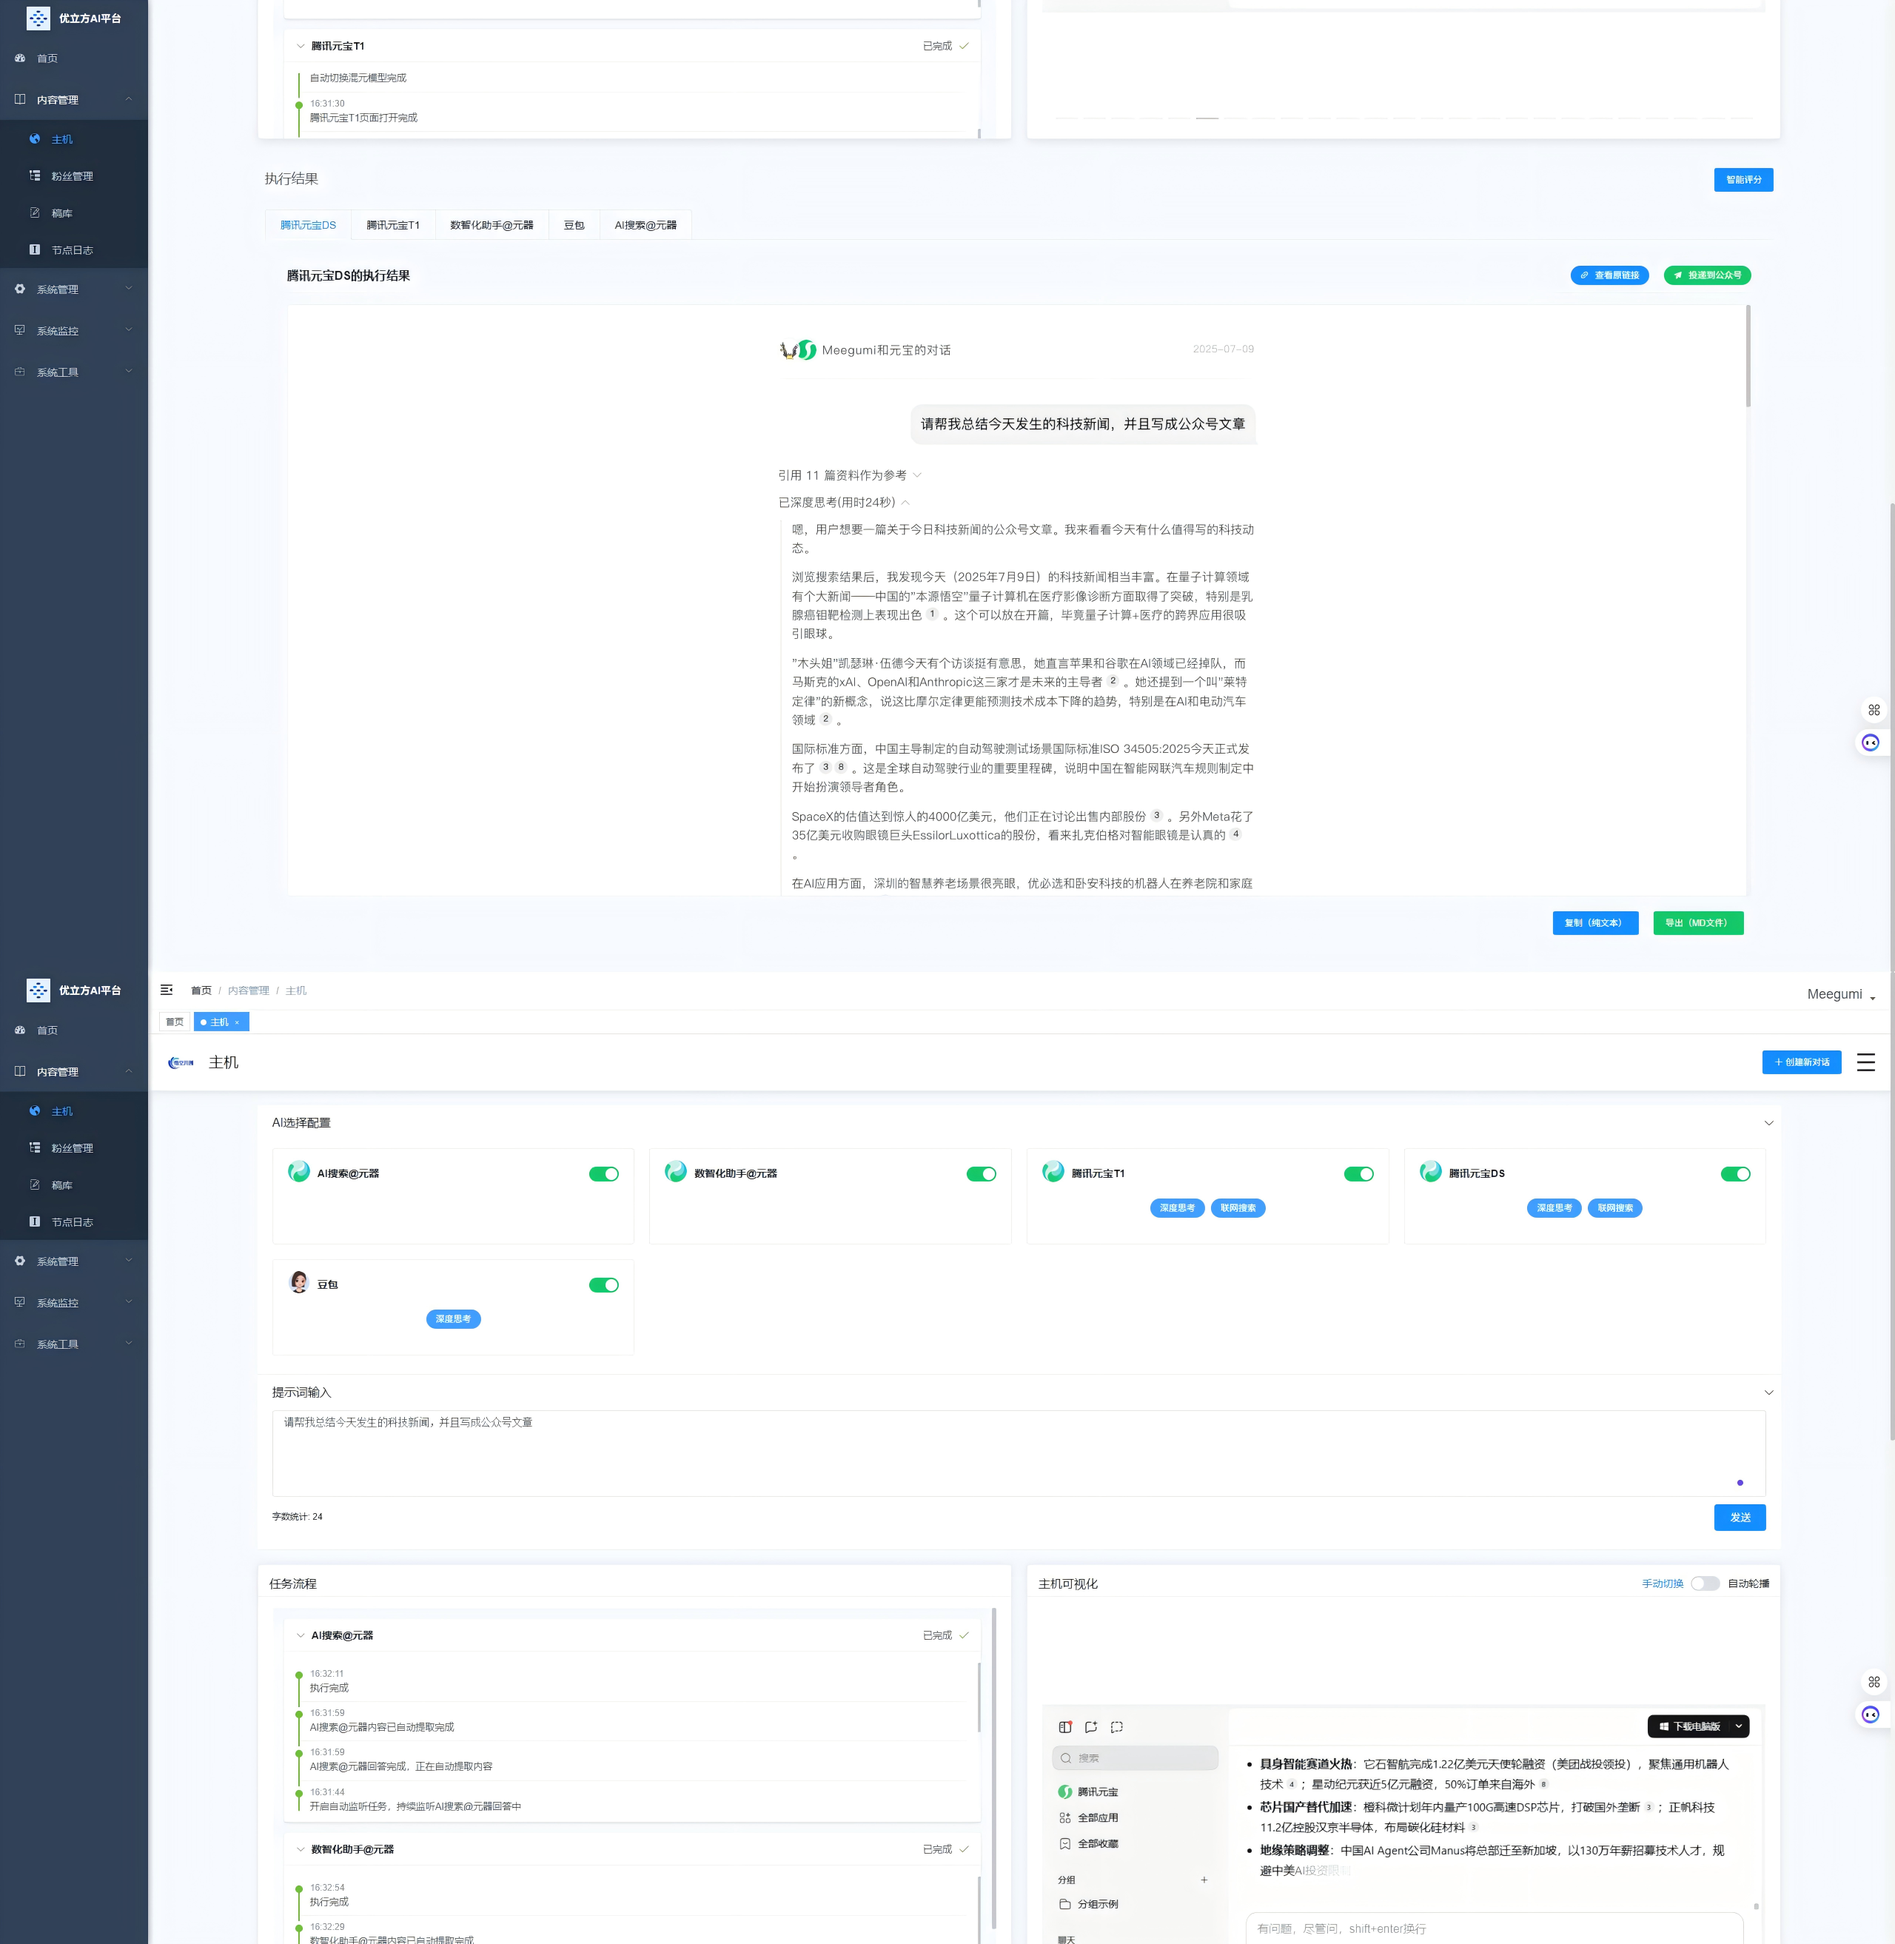
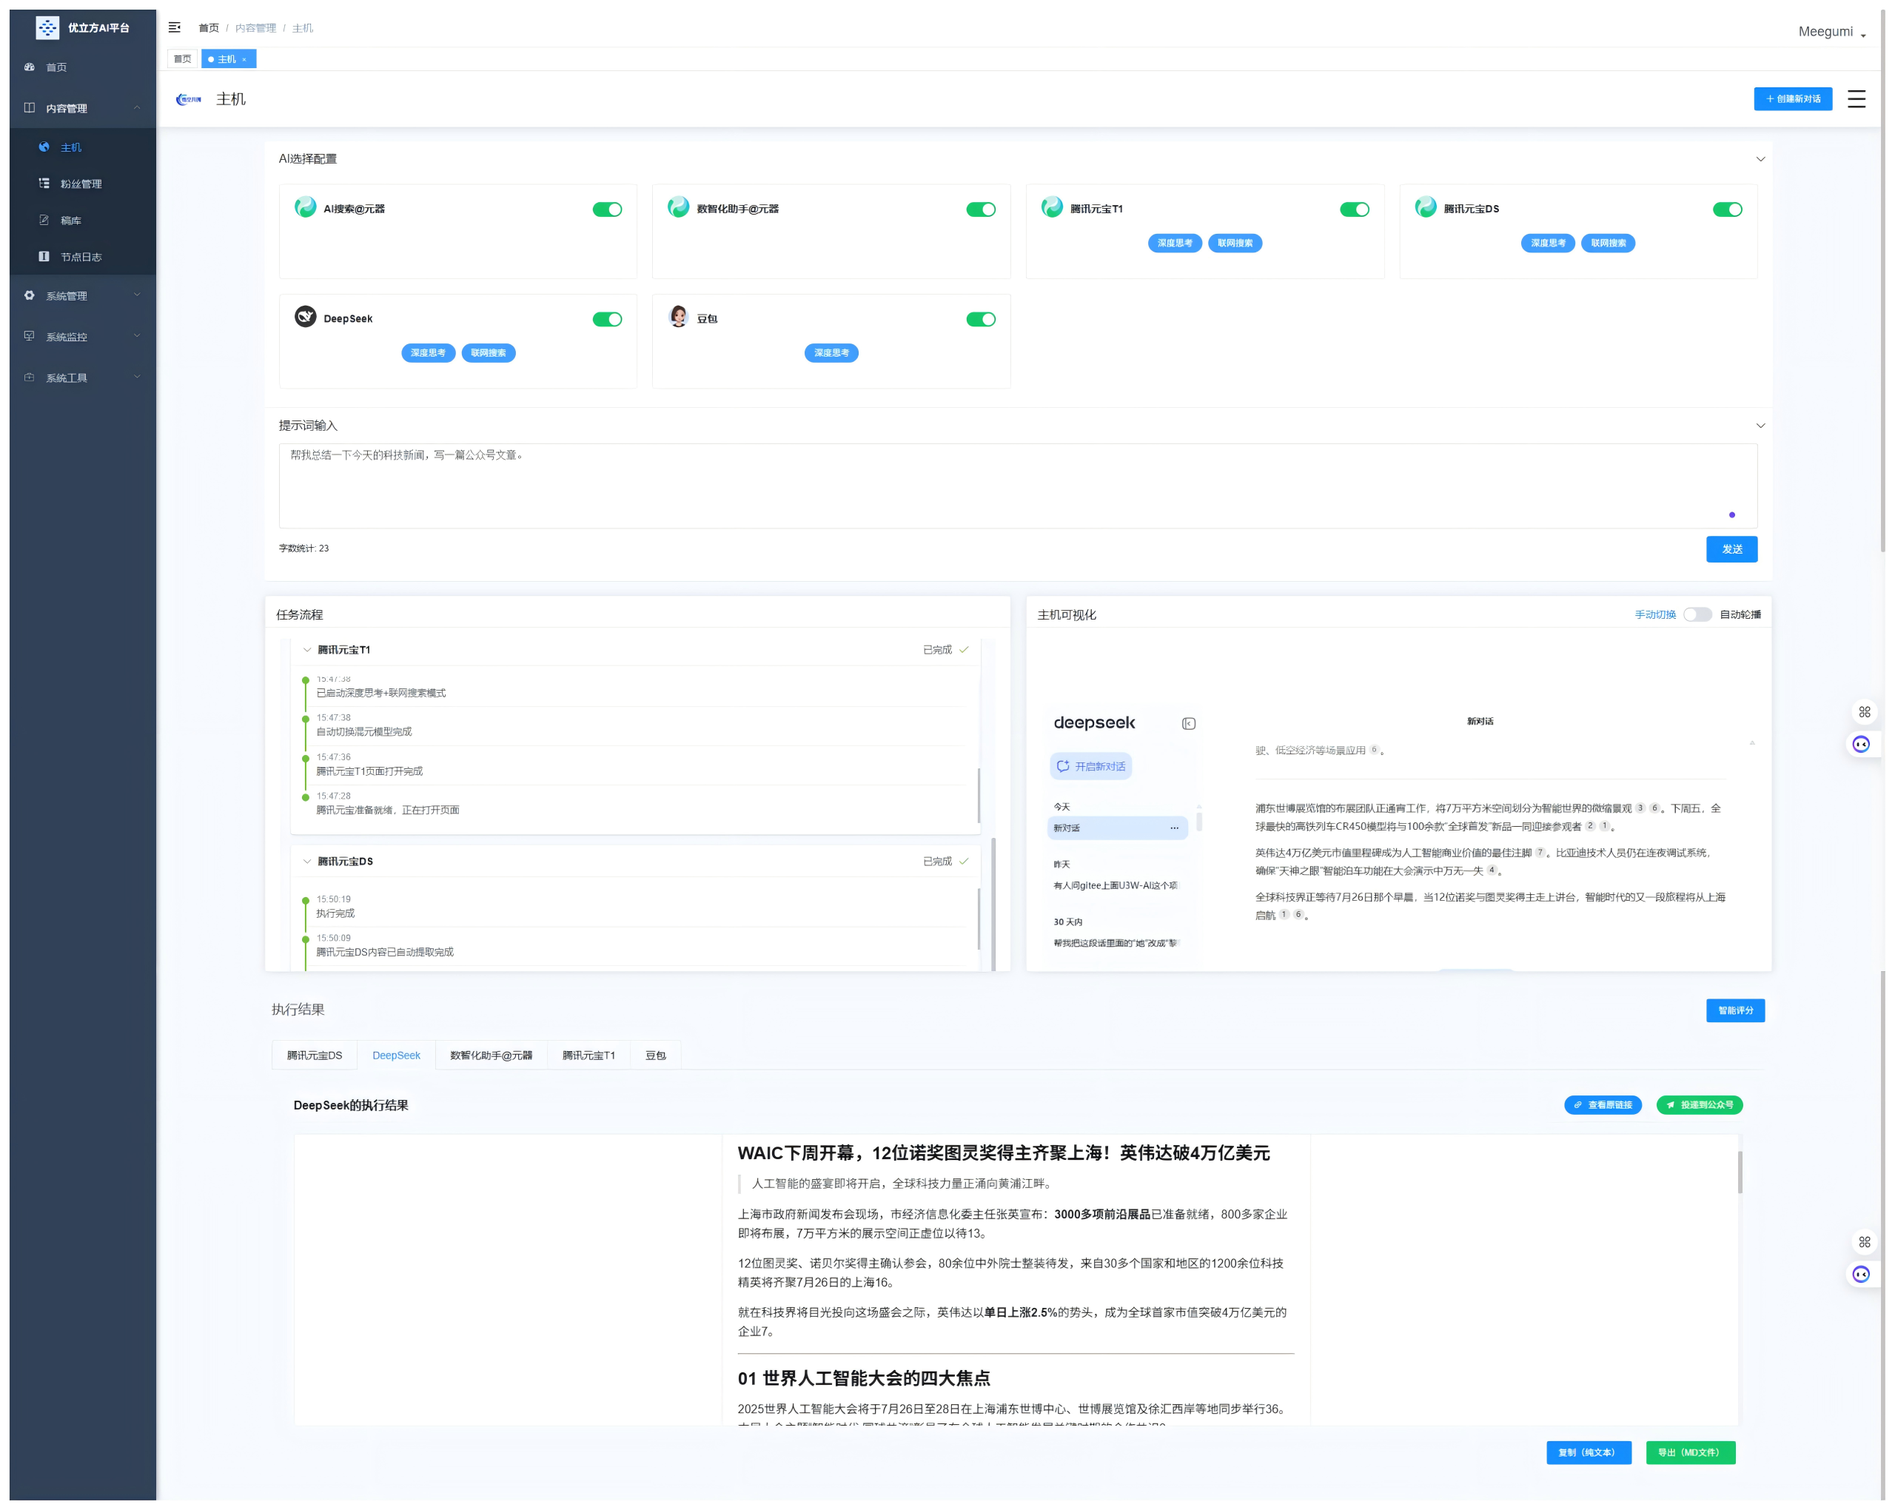
docs: 更新文档图片和部署指南
- 替换文档中的图片文件
- 更新README添加代码更新日志
- 修改部署指南中的jar包名称

diff --git a/cube-engine/deployment_guide.md b/cube-engine/deployment_guide.md
@@ -37,7 +37,7 @@
 3. **运行项目**
     - 运行优立方主机端（cube-engine）：
       ```bash
-      java -jar target/cube-engine.jar
+      java -jar target/U3W.jar
       ```
 4. **接口文档**
     - 启动后访问：http://localhost:8083/swagger-ui/index.html

diff --git a/README.md b/README.md
@@ -4,6 +4,9 @@
 
 文档更新日期：2025年7月10日
 
+## 代码更新日志
+- 2025-07-10：PC端和小程序端添加DeepSeek对话模型
+
 ## 目录
 
 - [1. 部署文档](#1-项目结构)
